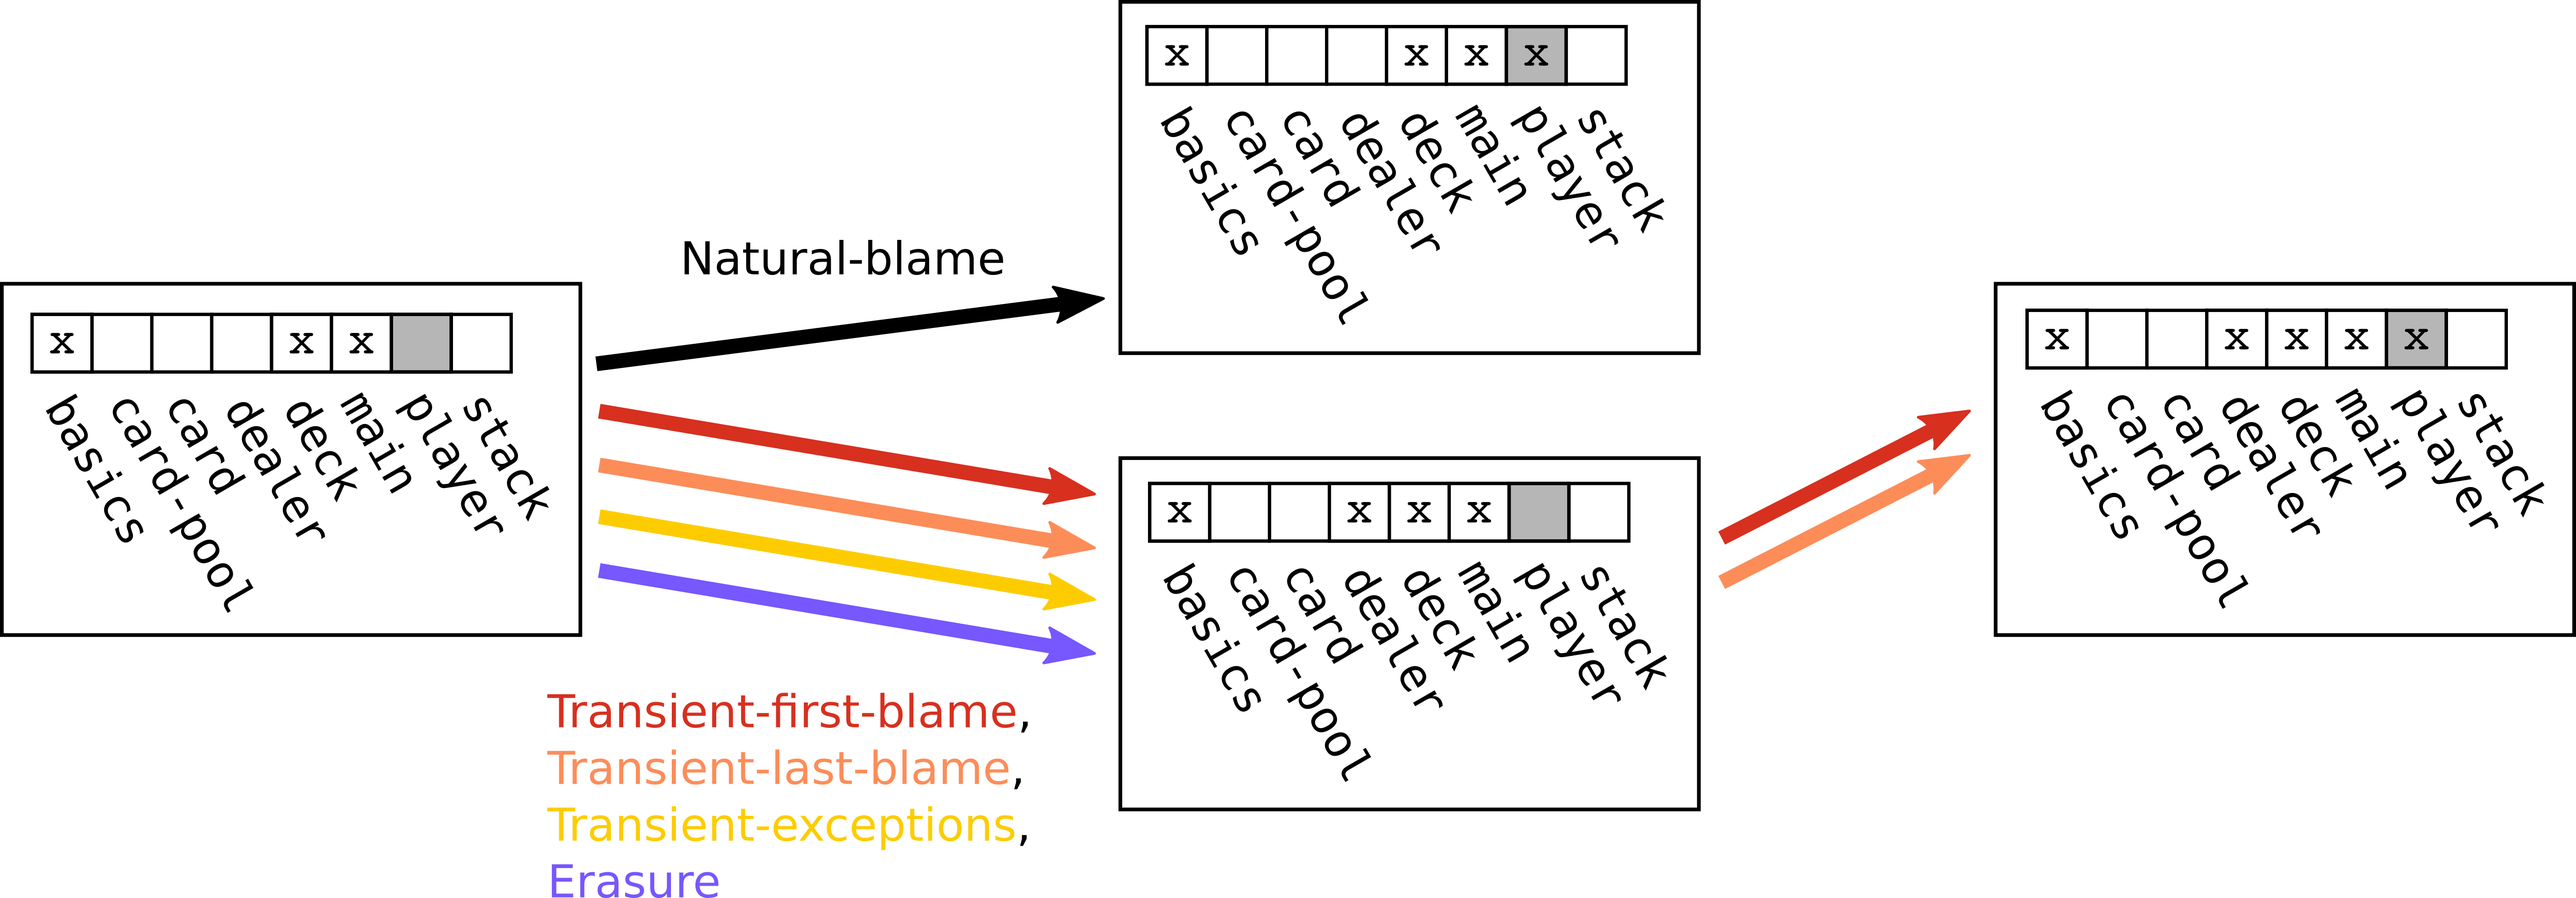
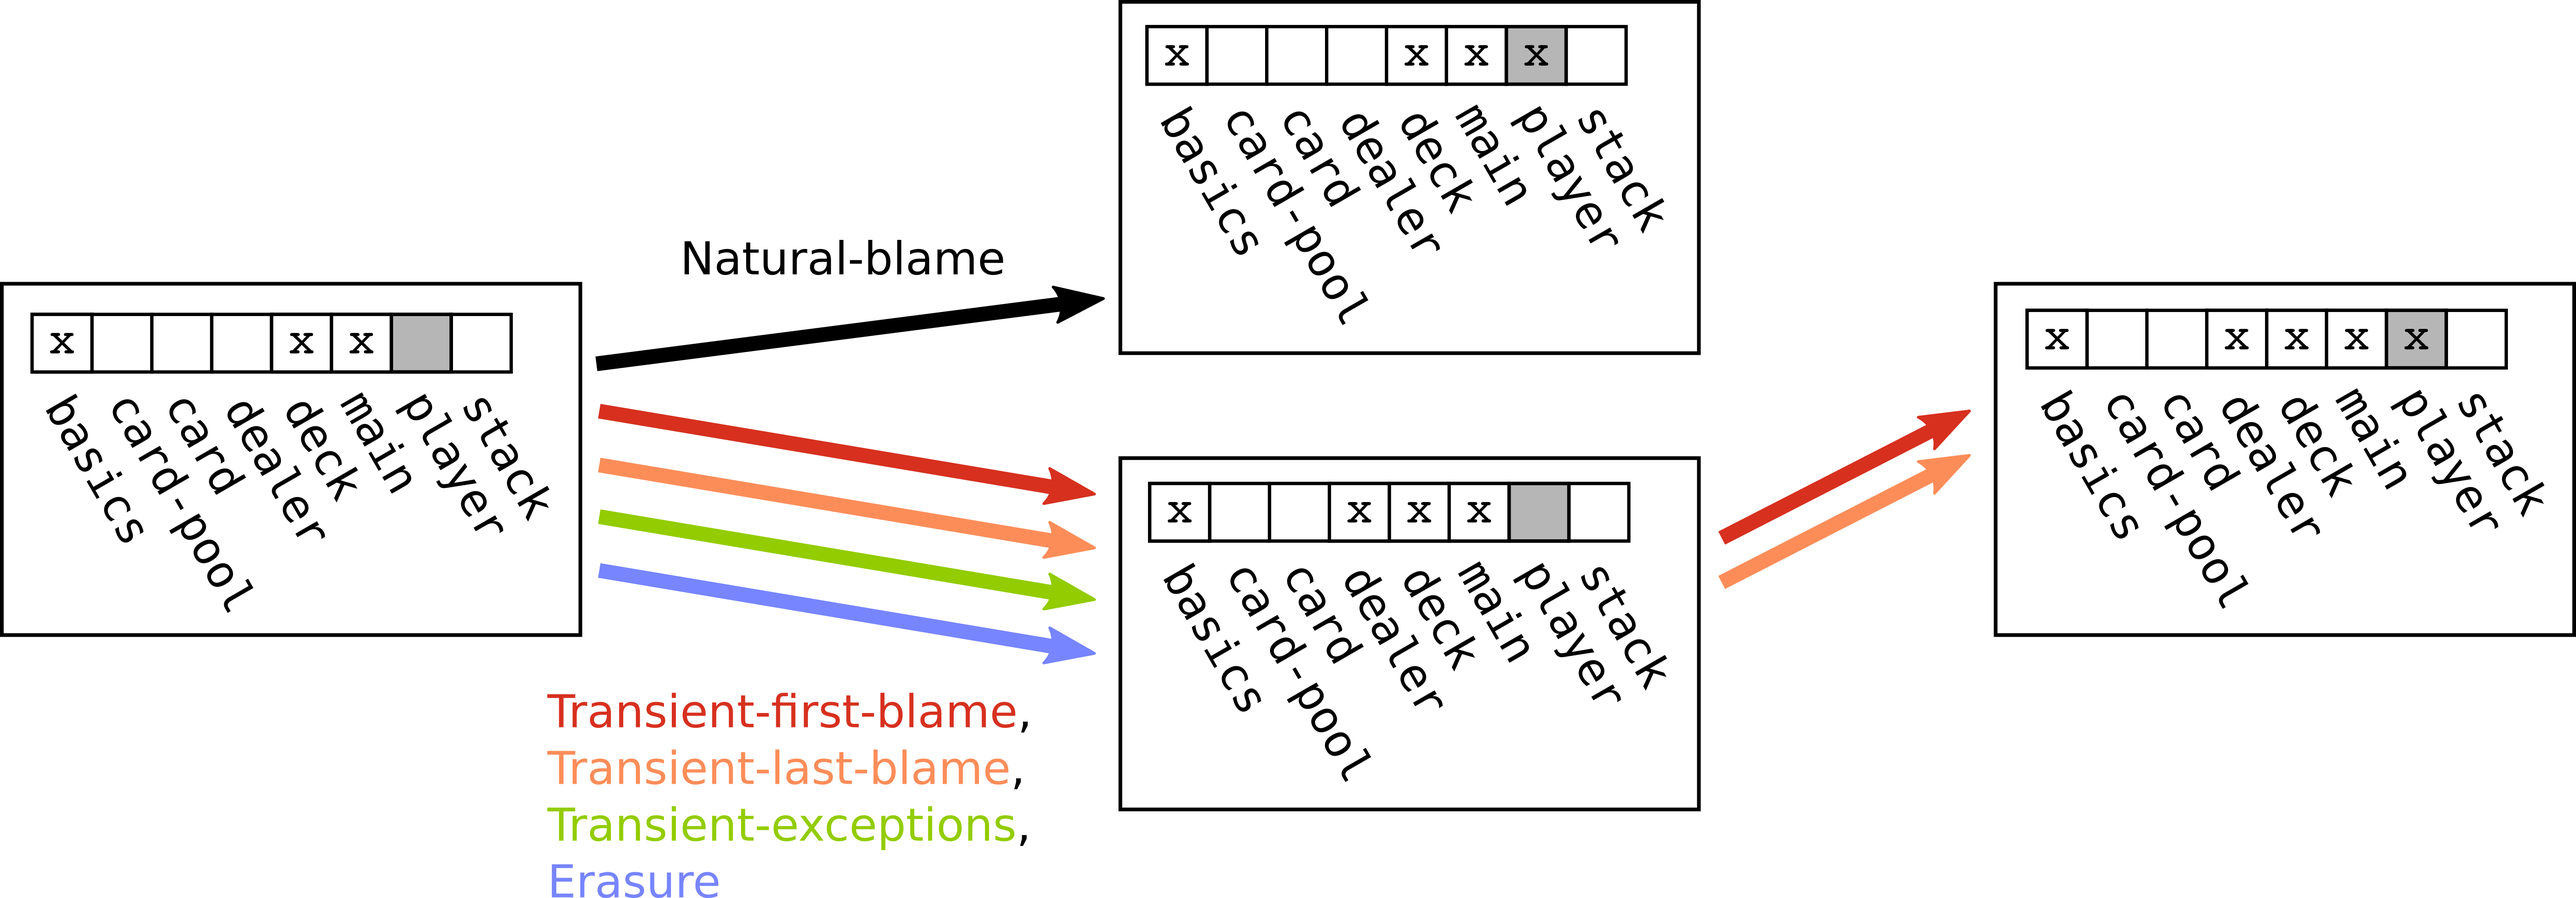
Touch up the trails example figure for readability

Changed region(s): [[0.2183, 0.5545, 0.4367, 0.7394], [0.2183, 0.8934, 0.4055, 1.0]]

diff --git a/writing/trail-example-table.tex b/writing/trail-example-table.tex
@@ -1,16 +1,16 @@
 {
   \definecolor{trans-fb}{RGB}{215, 48, 31}
   \definecolor{trans-lb}{RGB}{252, 141, 89}
-  \definecolor{trans-exn}{RGB}{253, 204, 0}
-  \definecolor{erasure}{RGB}{119, 87, 254}
+  \definecolor{trans-exn}{RGB}{147, 204, 0}
+  \definecolor{erasure}{RGB}{119, 133, 254}
 
   \newcommand\config[1]{\begin{minipage}{0.09\textwidth}\centering\includegraphics[width=\linewidth]{Images/#1}\end{minipage}}
   \newcommand\runtimeError{\begin{minipage}{0.03\textwidth}\centering\includegraphics[width=\linewidth]{Images/runtime-error}\end{minipage}}
   \newcommand\checkFailure{\begin{minipage}{0.03\textwidth}\centering\includegraphics[width=\linewidth]{Images/check-failure-plain}\end{minipage}}
   \newcommand\blameFinger{\begin{minipage}{0.02\textwidth}\centering\vspace{0.25em}\includegraphics[width=\linewidth]{Images/finger}\end{minipage}}
   \newcommand\typeError{\scalebox{1.5}{$\tau_{\hspace{-0.1em}\times}$}}
-  \newcommand\success{\textcolor{black!30!green}{\checkmark}}
-  \newcommand\fail{\textcolor{red}{\sffamily x}}
+  \newcommand\success{\textcolor{black!30!green}{\LARGE \checkmark}}
+  \newcommand\fail{\textcolor{red}{\LARGE \sffamily x}}
   \footnotesize
 \centering
 \begin{tabular}{l|ccl|ccl|cc|c}
@@ -51,12 +51,12 @@ Natural & \config{10001100} & \blameFinger & \texttt{main} & \config{10001110} &
 \vspace{0.5em}
 \centerline{\it Legend}
 
-\noindent{\bf config} \hspace{0.5em} Each box corresponds to a module and indicates (with x) if it is typed. 
+\noindent{\it config} \hspace{0.5em} Each box corresponds to a module and indicates (with x) if it is typed. 
 The mutated module is gray.
 
 \medskip
 
-\noindent{\bf result}\\
+\noindent{\it result}\\
 \begin{center}
 \vspace{-2.5em}
 \begin{tabular}{c@{\quad}l}
